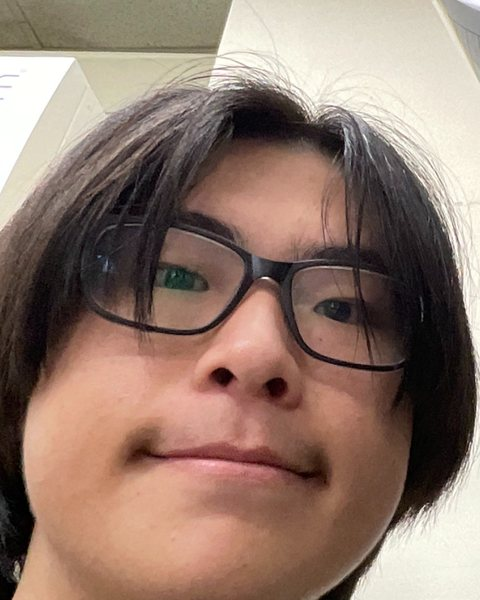
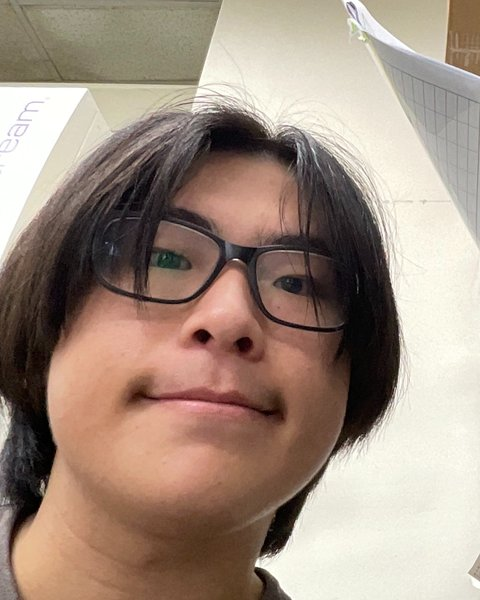
Recrop two member photos and keep member photos at 4:5
Center Wei-Han Weng in her photo and zoom out Rui-Xu Chang's photo.
Member photos now stay at 4:5 instead of stretching (and zooming in)
when a card grows taller than the photo; the photo column is tinted
to fill the space.

diff --git a/docs/static/css/style.css b/docs/static/css/style.css
@@ -410,12 +410,14 @@ dialog.zoom img { display: block; max-width: 94vw; max-height: calc(94vh - 52px)
 @media (max-width: 640px) { .member-grid { grid-template-columns: 1fr; } }
 .member-card { padding: 0; overflow: hidden; display: grid; grid-template-columns: 120px minmax(0, 1fr); }
 .member-photo { display: block; width: 100%; height: 100%; min-height: 150px; object-fit: cover; object-position: center top; background: var(--blue-50); }
+img.member-photo { height: auto; min-height: 0; aspect-ratio: 4 / 5; align-self: center; }   /* 照片固定 4:5，卡片被文字撐高時不跟著拉長放大 */
+.member-card { background-image: linear-gradient(90deg, var(--blue-50) 120px, transparent 120px); }   /* 照片上下的空白用淡藍補成整條左欄 */
 .member-avatar { display: grid; place-items: center; font-size: 1.9rem; font-weight: 700; letter-spacing: 0.06em; color: var(--blue-700); background: linear-gradient(160deg, var(--blue-100), var(--blue-50)); }
 .member-body { align-self: center; min-width: 0; padding: 14px 16px; }
 .member-card h3 { margin: 0 0 0.15em; font-size: var(--fs-ui); line-height: 1.3; }
 .member-role { margin: 0; color: var(--blue-700); font-weight: 600; font-size: var(--fs-md); }
 .member-topic { margin: 0.5em 0 0; color: var(--muted); font-size: var(--fs-sm); line-height: 1.55; }
-@media (max-width: 640px) { .member-card { grid-template-columns: 104px minmax(0, 1fr); } .member-avatar { font-size: 1.7rem; } }
+@media (max-width: 640px) { .member-card { grid-template-columns: 104px minmax(0, 1fr); background-image: linear-gradient(90deg, var(--blue-50) 104px, transparent 104px); } .member-avatar { font-size: 1.7rem; } }
 /* 畢業成員：依學位分組，名單分欄排（窄螢幕自動變一欄） */
 .alumni-block + .alumni-block { margin-top: 32px; }
 .alumni-block .small-title { margin-top: 0; }

diff --git a/static/css/style.css b/static/css/style.css
@@ -410,12 +410,14 @@ dialog.zoom img { display: block; max-width: 94vw; max-height: calc(94vh - 52px)
 @media (max-width: 640px) { .member-grid { grid-template-columns: 1fr; } }
 .member-card { padding: 0; overflow: hidden; display: grid; grid-template-columns: 120px minmax(0, 1fr); }
 .member-photo { display: block; width: 100%; height: 100%; min-height: 150px; object-fit: cover; object-position: center top; background: var(--blue-50); }
+img.member-photo { height: auto; min-height: 0; aspect-ratio: 4 / 5; align-self: center; }   /* 照片固定 4:5，卡片被文字撐高時不跟著拉長放大 */
+.member-card { background-image: linear-gradient(90deg, var(--blue-50) 120px, transparent 120px); }   /* 照片上下的空白用淡藍補成整條左欄 */
 .member-avatar { display: grid; place-items: center; font-size: 1.9rem; font-weight: 700; letter-spacing: 0.06em; color: var(--blue-700); background: linear-gradient(160deg, var(--blue-100), var(--blue-50)); }
 .member-body { align-self: center; min-width: 0; padding: 14px 16px; }
 .member-card h3 { margin: 0 0 0.15em; font-size: var(--fs-ui); line-height: 1.3; }
 .member-role { margin: 0; color: var(--blue-700); font-weight: 600; font-size: var(--fs-md); }
 .member-topic { margin: 0.5em 0 0; color: var(--muted); font-size: var(--fs-sm); line-height: 1.55; }
-@media (max-width: 640px) { .member-card { grid-template-columns: 104px minmax(0, 1fr); } .member-avatar { font-size: 1.7rem; } }
+@media (max-width: 640px) { .member-card { grid-template-columns: 104px minmax(0, 1fr); background-image: linear-gradient(90deg, var(--blue-50) 104px, transparent 104px); } .member-avatar { font-size: 1.7rem; } }
 /* 畢業成員：依學位分組，名單分欄排（窄螢幕自動變一欄） */
 .alumni-block + .alumni-block { margin-top: 32px; }
 .alumni-block .small-title { margin-top: 0; }

diff --git a/docs/zh/people/index.html b/docs/zh/people/index.html
@@ -21,7 +21,7 @@
   <link rel="preconnect" href="https://fonts.gstatic.com" crossorigin>
   <link rel="preload" href="../../static/fonts/NotoSansTC-subset.woff?v=5c0d9f71" as="font" type="font/woff" crossorigin>
   <link rel="stylesheet" href="https://fonts.googleapis.com/css2?family=Inter:wght@400;500;600;700&display=swap">
-  <link rel="stylesheet" href="../../static/css/style.css?v=6455e924">
+  <link rel="stylesheet" href="../../static/css/style.css?v=4e041422">
 </head>
 <body id="top" class="lang-zh page-people">
 <a class="skip-link" href="#main">跳到主要內容</a>
@@ -73,7 +73,7 @@
         </div>
       </article>
       <article class="card member-card">
-        <img class="member-photo" src="../../static/img/people/wei-han-weng.jpg?v=e07341f8" alt="Wei-Han Weng" width="480" height="600" loading="lazy" decoding="async">
+        <img class="member-photo" src="../../static/img/people/wei-han-weng.jpg?v=b0d3c01e" alt="Wei-Han Weng" width="480" height="600" loading="lazy" decoding="async">
         <div class="member-body">
           <h3>Wei-Han Weng</h3>
           <p class="member-role">博士生</p>
@@ -108,7 +108,7 @@
         </div>
       </article>
       <article class="card member-card">
-        <img class="member-photo" src="../../static/img/people/rui-xu-chang.jpg?v=d3bfcf66" alt="Rui-Xu Chang" width="480" height="600" loading="lazy" decoding="async">
+        <img class="member-photo" src="../../static/img/people/rui-xu-chang.jpg?v=7bd0b88c" alt="Rui-Xu Chang" width="480" height="600" loading="lazy" decoding="async">
         <div class="member-body">
           <h3>Rui-Xu Chang</h3>
           <p class="member-role">碩士生</p>

diff --git a/docs/people/index.html b/docs/people/index.html
@@ -20,7 +20,7 @@
   <link rel="preconnect" href="https://fonts.googleapis.com">
   <link rel="preconnect" href="https://fonts.gstatic.com" crossorigin>
   <link rel="stylesheet" href="https://fonts.googleapis.com/css2?family=Inter:wght@400;500;600;700&display=swap">
-  <link rel="stylesheet" href="../static/css/style.css?v=6455e924">
+  <link rel="stylesheet" href="../static/css/style.css?v=4e041422">
 </head>
 <body id="top" class="lang-en page-people">
 <a class="skip-link" href="#main">Skip to content</a>
@@ -72,7 +72,7 @@
         </div>
       </article>
       <article class="card member-card">
-        <img class="member-photo" src="../static/img/people/wei-han-weng.jpg?v=e07341f8" alt="Wei-Han Weng" width="480" height="600" loading="lazy" decoding="async">
+        <img class="member-photo" src="../static/img/people/wei-han-weng.jpg?v=b0d3c01e" alt="Wei-Han Weng" width="480" height="600" loading="lazy" decoding="async">
         <div class="member-body">
           <h3>Wei-Han Weng</h3>
           <p class="member-role">Ph.D. Student</p>
@@ -107,7 +107,7 @@
         </div>
       </article>
       <article class="card member-card">
-        <img class="member-photo" src="../static/img/people/rui-xu-chang.jpg?v=d3bfcf66" alt="Rui-Xu Chang" width="480" height="600" loading="lazy" decoding="async">
+        <img class="member-photo" src="../static/img/people/rui-xu-chang.jpg?v=7bd0b88c" alt="Rui-Xu Chang" width="480" height="600" loading="lazy" decoding="async">
         <div class="member-body">
           <h3>Rui-Xu Chang</h3>
           <p class="member-role">M.S. Student</p>

diff --git a/docs/zh/index.html b/docs/zh/index.html
@@ -23,7 +23,7 @@
 <link rel="preload" as="image" type="image/webp" href="../static/img/bg/hero-sm.webp?v=8dc233d4" media="(max-width: 860px)" fetchpriority="high">
 <link rel="preload" as="image" type="image/webp" href="../static/img/bg/hero.webp?v=d8e1f6c4" media="(min-width: 861px)" fetchpriority="high">
   <link rel="stylesheet" href="https://fonts.googleapis.com/css2?family=Inter:wght@400;500;600;700&display=swap">
-  <link rel="stylesheet" href="../static/css/style.css?v=6455e924">
+  <link rel="stylesheet" href="../static/css/style.css?v=4e041422">
 </head>
 <body id="top" class="lang-zh page-home">
 <a class="skip-link" href="#main">跳到主要內容</a>

diff --git a/docs/index.html b/docs/index.html
@@ -22,7 +22,7 @@
 <link rel="preload" as="image" type="image/webp" href="static/img/bg/hero-sm.webp?v=8dc233d4" media="(max-width: 860px)" fetchpriority="high">
 <link rel="preload" as="image" type="image/webp" href="static/img/bg/hero.webp?v=d8e1f6c4" media="(min-width: 861px)" fetchpriority="high">
   <link rel="stylesheet" href="https://fonts.googleapis.com/css2?family=Inter:wght@400;500;600;700&display=swap">
-  <link rel="stylesheet" href="static/css/style.css?v=6455e924">
+  <link rel="stylesheet" href="static/css/style.css?v=4e041422">
 </head>
 <body id="top" class="lang-en page-home">
 <a class="skip-link" href="#main">Skip to content</a>

diff --git a/docs/zh/publications/index.html b/docs/zh/publications/index.html
@@ -21,7 +21,7 @@
   <link rel="preconnect" href="https://fonts.gstatic.com" crossorigin>
   <link rel="preload" href="../../static/fonts/NotoSansTC-subset.woff?v=5c0d9f71" as="font" type="font/woff" crossorigin>
   <link rel="stylesheet" href="https://fonts.googleapis.com/css2?family=Inter:wght@400;500;600;700&display=swap">
-  <link rel="stylesheet" href="../../static/css/style.css?v=6455e924">
+  <link rel="stylesheet" href="../../static/css/style.css?v=4e041422">
 </head>
 <body id="top" class="lang-zh page-publications">
 <a class="skip-link" href="#main">跳到主要內容</a>

diff --git a/docs/zh/research/index.html b/docs/zh/research/index.html
@@ -21,7 +21,7 @@
   <link rel="preconnect" href="https://fonts.gstatic.com" crossorigin>
   <link rel="preload" href="../../static/fonts/NotoSansTC-subset.woff?v=5c0d9f71" as="font" type="font/woff" crossorigin>
   <link rel="stylesheet" href="https://fonts.googleapis.com/css2?family=Inter:wght@400;500;600;700&display=swap">
-  <link rel="stylesheet" href="../../static/css/style.css?v=6455e924">
+  <link rel="stylesheet" href="../../static/css/style.css?v=4e041422">
 </head>
 <body id="top" class="lang-zh page-research">
 <a class="skip-link" href="#main">跳到主要內容</a>

diff --git a/docs/zh/contact/index.html b/docs/zh/contact/index.html
@@ -21,7 +21,7 @@
   <link rel="preconnect" href="https://fonts.gstatic.com" crossorigin>
   <link rel="preload" href="../../static/fonts/NotoSansTC-subset.woff?v=5c0d9f71" as="font" type="font/woff" crossorigin>
   <link rel="stylesheet" href="https://fonts.googleapis.com/css2?family=Inter:wght@400;500;600;700&display=swap">
-  <link rel="stylesheet" href="../../static/css/style.css?v=6455e924">
+  <link rel="stylesheet" href="../../static/css/style.css?v=4e041422">
 </head>
 <body id="top" class="lang-zh page-contact">
 <a class="skip-link" href="#main">跳到主要內容</a>

diff --git a/docs/zh/join/index.html b/docs/zh/join/index.html
@@ -21,7 +21,7 @@
   <link rel="preconnect" href="https://fonts.gstatic.com" crossorigin>
   <link rel="preload" href="../../static/fonts/NotoSansTC-subset.woff?v=5c0d9f71" as="font" type="font/woff" crossorigin>
   <link rel="stylesheet" href="https://fonts.googleapis.com/css2?family=Inter:wght@400;500;600;700&display=swap">
-  <link rel="stylesheet" href="../../static/css/style.css?v=6455e924">
+  <link rel="stylesheet" href="../../static/css/style.css?v=4e041422">
 </head>
 <body id="top" class="lang-zh page-join">
 <a class="skip-link" href="#main">跳到主要內容</a>

diff --git a/docs/zh/news/index.html b/docs/zh/news/index.html
@@ -21,7 +21,7 @@
   <link rel="preconnect" href="https://fonts.gstatic.com" crossorigin>
   <link rel="preload" href="../../static/fonts/NotoSansTC-subset.woff?v=5c0d9f71" as="font" type="font/woff" crossorigin>
   <link rel="stylesheet" href="https://fonts.googleapis.com/css2?family=Inter:wght@400;500;600;700&display=swap">
-  <link rel="stylesheet" href="../../static/css/style.css?v=6455e924">
+  <link rel="stylesheet" href="../../static/css/style.css?v=4e041422">
 </head>
 <body id="top" class="lang-zh page-news">
 <a class="skip-link" href="#main">跳到主要內容</a>

diff --git a/docs/zh/pi/index.html b/docs/zh/pi/index.html
@@ -21,7 +21,7 @@
   <link rel="preconnect" href="https://fonts.gstatic.com" crossorigin>
   <link rel="preload" href="../../static/fonts/NotoSansTC-subset.woff?v=5c0d9f71" as="font" type="font/woff" crossorigin>
   <link rel="stylesheet" href="https://fonts.googleapis.com/css2?family=Inter:wght@400;500;600;700&display=swap">
-  <link rel="stylesheet" href="../../static/css/style.css?v=6455e924">
+  <link rel="stylesheet" href="../../static/css/style.css?v=4e041422">
 </head>
 <body id="top" class="lang-zh page-pi">
 <a class="skip-link" href="#main">跳到主要內容</a>
